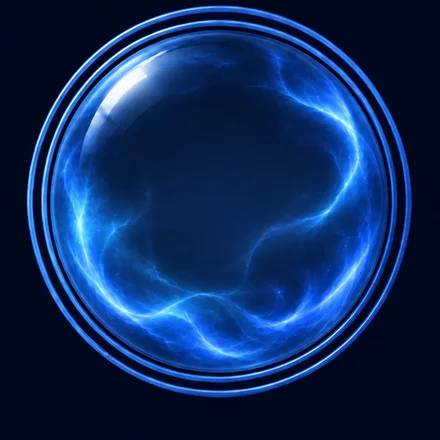
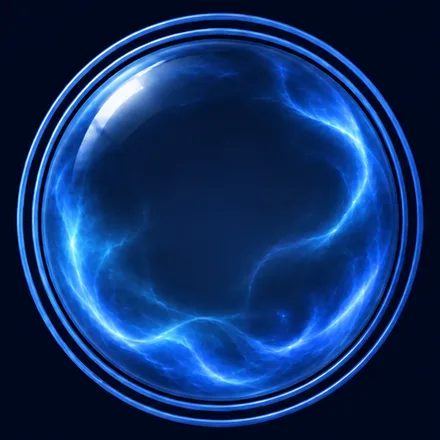
fix(badges): centre the faces, the glyphs and the comeback arrow (#542)
Reported from the app: Beginnings and Building sat high in their black cutout
while Mastery and Legacy looked right, and several glyphs were not dead centre
in the medallion. Three separate causes.

The faces were cropped out of the generated row by hand, so each medallion
landed somewhere slightly different. Beginnings and Building were 19px high in
a 440px frame and also smaller than Mastery, 379 and 385 wide against 402. All
four are now cropped from the masters by measurement: the content box is found
by threshold, the crop is centred on it, and the side is diameter / 0.945 so
every band fills its frame identically. All four now centre on (220, 220)
within a pixel.

The glyphs are drawn by hand and their ink lands where the paths fall, not
where the 48-unit box says. a-quarter sat 8.95 units high, half-a-year 7.35,
and 23 of 34 were off by at least 0.4. BadgeMedallion has no DOM to measure
against — it builds the share card as a string — so the corrections live in
GLYPH_OFFSET and are applied in the glyph transform.
scripts/measure-badge-glyphs.mjs generates that table by rasterising each glyph
at the app's stroke and scanning the alpha channel, so caps and joins count.
Every glyph now centres within 0.12 units of the medallion's middle.

The comeback's arrowhead was a corner bracket sitting next to an arc that
started somewhere else entirely. Both are now generated from one circle: the
endpoints sit on r=13 about (24,24) and the head's vertex is the arc's own end
[…]

diff --git a/frontend/src/components/badgeGlyphs.ts b/frontend/src/components/badgeGlyphs.ts
@@ -48,8 +48,10 @@ export const BADGE_GLYPHS: Record<AchievementId, string> = {
     '<rect x="8" y="11" width="26" height="26" rx="3"/><path d="M8 18h26M8 25h26M8 32h26M15 11v26M22 11v26"/><path d="M38 15v18"/>',
   'twenty-thousand-entries':
     '<rect x="7" y="10" width="24" height="28" rx="3"/><path d="M7 17h24M7 24h24M7 31h24M14 10v28M21 10v28"/><path d="M35 13v22M40 17v14"/>',
+  // Arc and arrowhead are generated, not eyeballed: both endpoints sit on r=13 about (24,24) and
+  // the head's vertex is the arc's own end point, so the chevron cannot drift off the ring.
   'the-comeback':
-    '<path d="M14 22a11 11 0 1 0 4-8.5"/><path d="M9 8v8h8"/><circle cx="24" cy="24" r="3.2" fill="currentColor" stroke="none"/>',
+    '<path d="M30.5 12.74A13 13 0 1 1 17.5 12.74"/><path d="M14.52 18.39 17.5 12.74 11.12 12.5"/><circle cx="24" cy="24" r="3" fill="currentColor" stroke="none"/>',
   'clean-sweep': '<path d="M12 25l8 8 16-18"/><path d="M8 33l5 5"/>',
   reconciled:
     '<path d="M10 17h20l-4-4M38 31H18l4 4"/><path d="M33 13l5 4-5 4"/><path d="M15 27l-5 4 5 4"/>',
@@ -65,4 +67,43 @@ export const BADGE_GLYPHS: Record<AchievementId, string> = {
   'every-month':
     '<rect x="9" y="12" width="30" height="27" rx="3"/><path d="M9 21h30M17 8v8M31 8v8"/><path d="M15 27h4M22 27h4M29 27h4M15 33h4M22 33h4M29 33h4"/>',
   'own-the-stack': `<rect x="10" y="9" width="28" height="9" rx="2"/><rect x="10" y="19.5" width="28" height="9" rx="2"/><rect x="10" y="30" width="28" height="9" rx="2"/>${['13.5', '24', '34.5'].map((y) => `<circle cx="15" cy="${y}" r="1.5" fill="currentColor" stroke="none"/>`).join('')}`,
+}
+/**
+ * How far each glyph has to move to sit dead centre on (24,24).
+ *
+ * The glyphs are drawn by hand and their ink lands where the paths fall, not where the box
+ * says: a shallow arc with dots under it lives in the upper half, and the medallion then renders
+ * it visibly high. `BadgeMedallion` has no DOM to measure against — it builds the share card as
+ * a string — so the numbers are measured once and kept here.
+ *
+ * Generated by `node scripts/measure-badge-glyphs.mjs`, which rasterises each glyph at the
+ * stroke the app uses and scans the alpha channel, so caps and joins count. Re-run it and paste
+ * the output whenever a glyph changes or a badge is added.
+ */
+export const GLYPH_OFFSET: Partial<Record<AchievementId, readonly [number, number]>> = {
+  'first-import': [0, 1],
+  'first-budget': [0, 0.1],
+  'named-everything': [-1, 1],
+  'one-month': [0, 1],
+  'a-quarter': [0, 8.95],
+  'saver-x3': [0, 2],
+  'held-the-line': [0, -0.5],
+  'goal-reached': [0, -0.5],
+  'half-a-year': [0, 7.35],
+  'saver-x6': [0, -0.7],
+  'five-years': [0, -0.95],
+  'ten-years': [0, 1.75],
+  'twenty-years': [0, 0.85],
+  'hundred-entries': [0, -2],
+  'thousand-entries': [0, -0.85],
+  'ten-thousand-entries': [1, 0],
+  'twenty-thousand-entries': [0.5, 0],
+  'the-comeback': [0, -0.75],
+  'clean-sweep': [2, -2.5],
+  'ahead-of-plan': [0, 1],
+  'the-full-picture': [0.3, 0],
+  'under-budget-six': [0, -0.5],
+  'rainy-day': [-1, -1.55],
+  'debt-free': [0, 2],
+  'every-month': [0, 0.5],
 }

diff --git a/frontend/src/components/BadgeMedallion.tsx b/frontend/src/components/BadgeMedallion.tsx
@@ -6,7 +6,7 @@
  * (packages/showcase-gallery/gallery-viewer/token-circles-badges.html).
  */
 import { createUniqueId, Show } from 'solid-js'
-import { BADGE_GLYPHS } from './badgeGlyphs'
+import { BADGE_GLYPHS, GLYPH_OFFSET } from './badgeGlyphs'
 import styles from './BadgeMedallion.module.css'
 import type { JSX } from 'solid-js'
 import type { AchievementId, Band } from '../core/achievements/definitions'
@@ -59,8 +59,15 @@ function baseMarkup(uid: string, band: Band): string {
   return `${defs(uid)}<circle cx="110" cy="110" r="80" fill="url(#${uid}-face)" stroke="rgba(147,180,255,.22)"/><circle cx="110" cy="110" r="93" fill="none" stroke="${paint}" stroke-width="1.2" stroke-dasharray="1.6 4.4" opacity=".55"/>${rings}`
 }
 
-const glyphMarkup = (id: AchievementId): string =>
-  `<g transform="translate(110 110) scale(1.55) translate(-24 -24)" fill="none" stroke="currentColor" stroke-width="2.2" stroke-linecap="round" stroke-linejoin="round">${BADGE_GLYPHS[id]}</g>`
+/**
+ * The glyph is placed by its measured ink, not by its box: a shallow arc with dots under it fills
+ * only part of its 48-unit square and would otherwise render high in the medallion. GLYPH_OFFSET
+ * carries the correction (see badgeGlyphs.ts).
+ */
+const glyphMarkup = (id: AchievementId): string => {
+  const [dx, dy] = GLYPH_OFFSET[id] ?? [0, 0]
+  return `<g transform="translate(110 110) scale(1.55) translate(${dx - 24} ${dy - 24})" fill="none" stroke="currentColor" stroke-width="2.2" stroke-linecap="round" stroke-linejoin="round">${BADGE_GLYPHS[id]}</g>`
+}
 
 const orbsMarkup = (band: Band): string =>
   `<g class="${styles.orbit}">${[0, 120, 240].map((a) => orbAt(93, a, 3.2, ORB[band])).join('')}</g><g class="${styles.orbit} ${styles.ccw}">${[60, 240].map((a) => orbAt(104, a, 2, ORB[band])).join('')}</g>`

diff --git a/frontend/src/components/__tests__/BadgeMedallion.test.tsx b/frontend/src/components/__tests__/BadgeMedallion.test.tsx
@@ -1,7 +1,7 @@
 import { render } from 'solid-js/web'
 import { afterEach, describe, expect, it } from 'vitest'
 import { ACHIEVEMENTS } from '../../core/achievements/definitions'
-import { BADGE_GLYPHS } from '../badgeGlyphs'
+import { BADGE_GLYPHS, GLYPH_OFFSET } from '../badgeGlyphs'
 import BadgeMedallion, { medallionSvg } from '../BadgeMedallion'
 import type { JSX } from 'solid-js'
 
@@ -21,6 +21,23 @@ const mount = (el: () => JSX.Element): HTMLDivElement => {
 describe('BadgeMedallion', () => {
   it('has a glyph for every badge', () => {
     for (const a of ACHIEVEMENTS) expect(BADGE_GLYPHS[a.id], a.id).toMatch(/<(path|circle|rect)/)
+  })
+  it('only carries centring offsets for badges that exist', () => {
+    // A typo'd key here is silent: the lookup misses and the glyph quietly renders off centre.
+    const ids = new Set(ACHIEVEMENTS.map((a) => a.id))
+    for (const id of Object.keys(GLYPH_OFFSET)) expect(ids.has(id as never), id).toBe(true)
+  })
+  it('places the glyph by its measured ink, not by its box', () => {
+    // half-a-year is an arc across the top of its box with dots under it, so its ink sits high
+    // and the medallion has to push it down. The number comes from scripts/measure-badge-glyphs.
+    const [dx, dy] = GLYPH_OFFSET['half-a-year']!
+    expect(dy).toBeGreaterThan(1)
+    expect(medallionSvg('half-a-year', 'mastery', 220)).toContain(
+      `translate(${dx - 24} ${dy - 24})`
+    )
+    // A glyph with no entry is drawn on the box centre, unshifted.
+    expect(GLYPH_OFFSET['two-years']).toBeUndefined()
+    expect(medallionSvg('two-years', 'mastery', 220)).toContain('translate(-24 -24)')
   })
   it('draws one, two or three rings by band and marks unlit', () => {
     const c = mount(() => (

diff --git a/dev-changelog.md b/dev-changelog.md
@@ -9,6 +9,29 @@ All notable changes to Token Circles are documented here. The format is based on
 
 ## [Unreleased]
 
+### Fixed
+
+- **The badge art was off centre, twice over.** Reported from the app: the Beginnings and
+  Building faces sat high in their black cutout while Mastery and Legacy looked right, and several
+  glyphs did not sit dead centre in the medallion.
+  - **The faces.** `aurora-blank-*.webp` were cropped by hand out of the generated row, so each
+    medallion landed somewhere slightly different: Beginnings and Building were 19px high in a
+    440px frame and also smaller than Mastery (379 and 385 wide against 402). All four are now
+    cropped from the masters by measurement — the medallion's content box is found by threshold,
+    the crop is centred on it, and the side is `diameter / 0.945` so every band fills the frame
+    identically. Re-measured: all four content boxes centre on (220, 220) within a pixel.
+  - **The glyphs.** They are drawn by hand and their ink lands where the paths fall, not where
+    the 48-unit box says: `a-quarter` sat 8.95 units high, `half-a-year` 7.35, and 23 of the 34
+    were off by at least 0.4. `BadgeMedallion` cannot measure anything — it builds the share card
+    as a string, with no DOM — so the corrections live in `GLYPH_OFFSET` in `badgeGlyphs.ts` and
+    are applied in the glyph transform. `scripts/measure-badge-glyphs.mjs` generates the table:
+    it rasterises each glyph at the app's stroke and scans the alpha channel, so caps and joins
+    count. Every glyph now centres within 0.12 units of the medallion's middle.
+  - **The comeback's arrowhead** was a corner bracket at (9,8)-(17,16) next to an arc that
+    started at (14,22) — nothing lined it up. The arc and the head are now generated from one
+    circle: both endpoints sit on r=13 about (24,24) and the head's vertex _is_ the arc's end
+    point, so the chevron cannot drift off the ring.
+
 ### Added
 
 - **A timeline of what has been earned, above the gallery** (`components/BadgeTimeline.tsx` and
